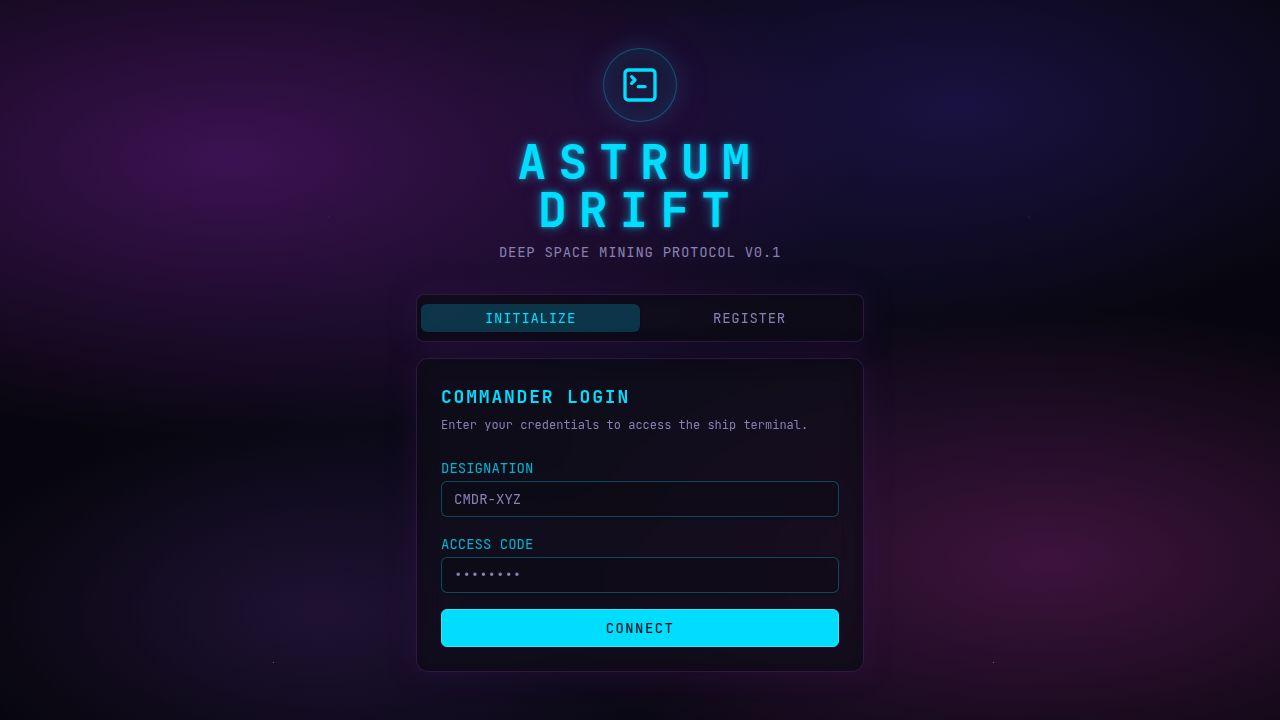
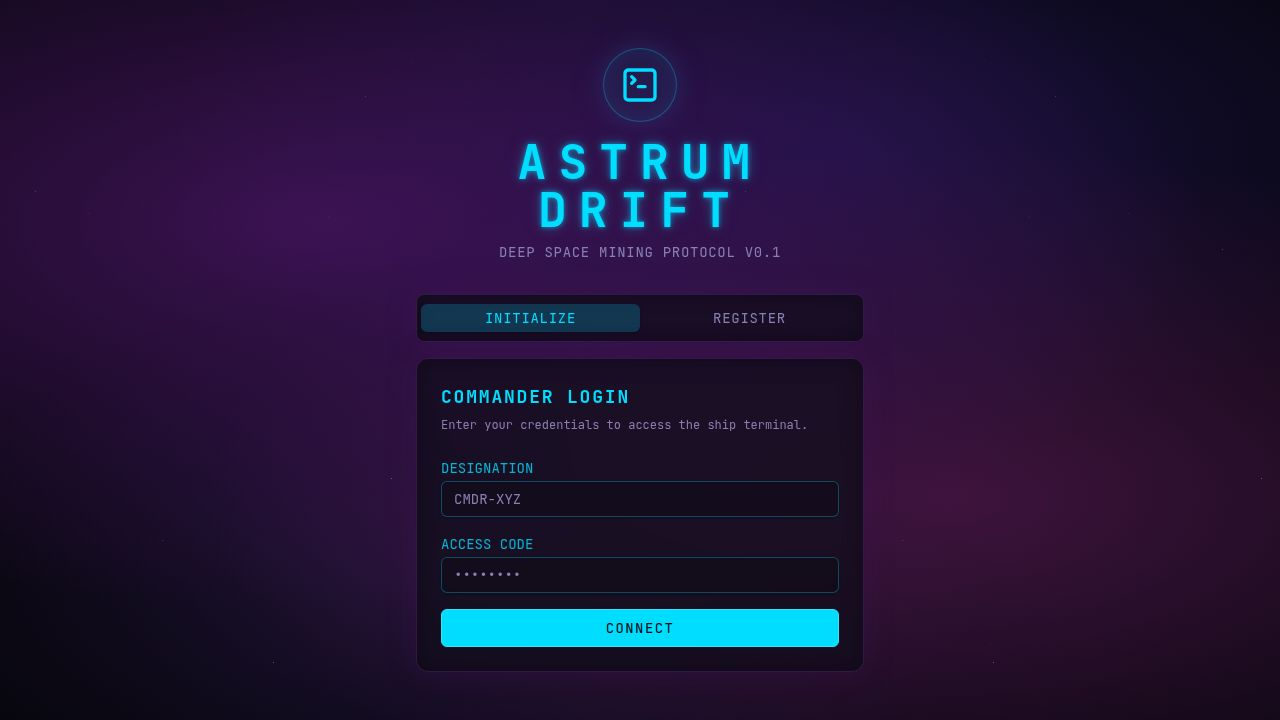
Animate nebula background: twinkling stars + drifting clouds
Original task: Task #7 - bring the static deep-space nebula
background to life with twinkling stars and slowly drifting
nebula cloud layers, while respecting the user's reduced-motion
preference.

Changes (artifacts/astrum-drift/src/index.css only):
- `.nebula-bg`: added `background-size`/`background-position` for
  the four cloud radial gradients and a new `nebula-drift`
  keyframe animation that slowly shifts those positions over a
  90s ease-in-out alternate cycle. The center vignette gradient
  is intentionally pinned at 50% 50% so the overall vignette
  doesn't slide off-center.
- `.nebula-stars`: applied a slow opacity twinkle
  (`nebula-twinkle-a`, 4.6s) on the existing star layer.
- Added `.nebula-stars::before` and `.nebula-stars::after`
  pseudo-element layers, each with their own scattered star
  gradients and independent twinkle animations
  (`nebula-twinkle-b` 6.7s, `nebula-twinkle-c` 8.3s) so stars
  fade in and out at varied offsets rather than in unison.
- Added `@user (prefers-reduced-motion: reduce)` rule that
  disables all four animations on `.nebula-bg`, `.nebula-stars`,
  and both pseudo-element layers.

No JSX changes were needed — both `auth.tsx` and `play.tsx`
already render `.nebula-bg` and `.nebula-stars`, so the new
motion picks up automatically. Verified the page still renders
correctly via the dev server.

Replit-Task-Id: a2f1dc40-0f48-4c6f-810d-823f9fe3a4e0

Changed region(s): [[0.0, 0.2444, 0.9688, 0.7333]]

diff --git a/artifacts/astrum-drift/src/index.css b/artifacts/astrum-drift/src/index.css
@@ -224,7 +224,9 @@
   /* Deep-space nebula background: layered radial gradients of purple,
      magenta and deep blue clouds, plus a tiled star field. Positioned to
      show vivid colour around the centred login card and to render
-     correctly inside nested iframes (no `background-attachment: fixed`). */
+     correctly inside nested iframes (no `background-attachment: fixed`).
+     The corner cloud layers slowly drift across the viewport for a sense
+     of motion; the central bloom and base vignette stay anchored. */
   .nebula-bg {
     background-color: hsl(248 45% 5%);
     background-image:
@@ -242,10 +244,52 @@
       radial-gradient(ellipse 50% 40% at 18% 88%, hsl(265 60% 24% / 0.75), transparent 75%),
       /* Deep base — slightly lighter at center so the nebula reads through */
       radial-gradient(circle at 50% 50%, hsl(248 50% 10%), hsl(248 45% 5%) 85%);
+    background-size:
+      100% 100%,
+      110% 110%,
+      140% 140%,
+      140% 140%,
+      140% 140%,
+      140% 140%,
+      100% 100%;
+    background-position:
+      50% 45%,
+      60% 80%,
+      0% 0%,
+      100% 100%,
+      100% 0%,
+      0% 100%,
+      50% 50%;
+    animation: nebula-drift 90s ease-in-out infinite alternate;
+  }
+
+  @keyframes nebula-drift {
+    0% {
+      background-position:
+        50% 45%,
+        60% 80%,
+        0% 0%,
+        100% 100%,
+        100% 0%,
+        0% 100%,
+        50% 50%;
+    }
+    100% {
+      background-position:
+        50% 45%,
+        58% 82%,
+        12% 8%,
+        88% 92%,
+        92% 10%,
+        8% 90%,
+        50% 50%;
+    }
   }
 
   /* Star field overlay: small bright dots scattered with two repeating
-     gradients at slightly different scales for a parallax feel. */
+     gradients at slightly different scales for a parallax feel. The
+     element holds the base star layer; ::before and ::after add two
+     additional sets, each twinkling on its own cadence. */
   .nebula-stars {
     position: absolute;
     inset: 0;
@@ -264,6 +308,68 @@
     background-size: 600px 600px, 800px 800px, 700px 700px, 900px 900px, 750px 750px, 650px 650px, 850px 850px, 720px 720px, 680px 680px, 800px 800px;
     background-repeat: repeat;
     opacity: 0.85;
+    animation: nebula-twinkle-a 4.6s ease-in-out infinite;
+    animation-delay: -1.3s;
+  }
+
+  .nebula-stars::before,
+  .nebula-stars::after {
+    content: "";
+    position: absolute;
+    inset: 0;
+    pointer-events: none;
+    background-repeat: repeat;
+  }
+
+  .nebula-stars::before {
+    background-image:
+      radial-gradient(1px 1px at 17% 41%, hsl(0 0% 100% / 0.8), transparent 50%),
+      radial-gradient(1.5px 1.5px at 53% 14%, hsl(188 100% 92% / 0.9), transparent 50%),
+      radial-gradient(1px 1px at 84% 67%, hsl(0 0% 100% / 0.7), transparent 50%),
+      radial-gradient(1px 1px at 33% 81%, hsl(0 0% 100% / 0.7), transparent 50%),
+      radial-gradient(1px 1px at 66% 36%, hsl(280 80% 92% / 0.8), transparent 50%);
+    background-size: 520px 520px, 690px 690px, 760px 760px, 610px 610px, 830px 830px;
+    opacity: 0.7;
+    animation: nebula-twinkle-b 6.7s ease-in-out infinite;
+    animation-delay: -2.9s;
+  }
+
+  .nebula-stars::after {
+    background-image:
+      radial-gradient(1.5px 1.5px at 22% 73%, hsl(188 100% 95% / 0.9), transparent 50%),
+      radial-gradient(1px 1px at 71% 11%, hsl(0 0% 100% / 0.75), transparent 50%),
+      radial-gradient(1px 1px at 45% 55%, hsl(0 0% 100% / 0.65), transparent 50%),
+      radial-gradient(1px 1px at 91% 39%, hsl(280 80% 92% / 0.7), transparent 50%),
+      radial-gradient(1px 1px at 5% 27%, hsl(0 0% 100% / 0.65), transparent 50%);
+    background-size: 740px 740px, 580px 580px, 870px 870px, 640px 640px, 710px 710px;
+    opacity: 0.6;
+    animation: nebula-twinkle-c 8.3s ease-in-out infinite;
+    animation-delay: -4.7s;
+  }
+
+  @keyframes nebula-twinkle-a {
+    0%, 100% { opacity: 0.85; }
+    50% { opacity: 0.5; }
+  }
+
+  @keyframes nebula-twinkle-b {
+    0%, 100% { opacity: 0.35; }
+    50% { opacity: 0.85; }
+  }
+
+  @keyframes nebula-twinkle-c {
+    0%, 100% { opacity: 0.55; }
+    30% { opacity: 0.95; }
+    65% { opacity: 0.25; }
+  }
+
+  @media (prefers-reduced-motion: reduce) {
+    .nebula-bg,
+    .nebula-stars,
+    .nebula-stars::before,
+    .nebula-stars::after {
+      animation: none;
+    }
   }
 
   /* Glassmorphism panel: dark, translucent, blurred, purple-tinted edge. */